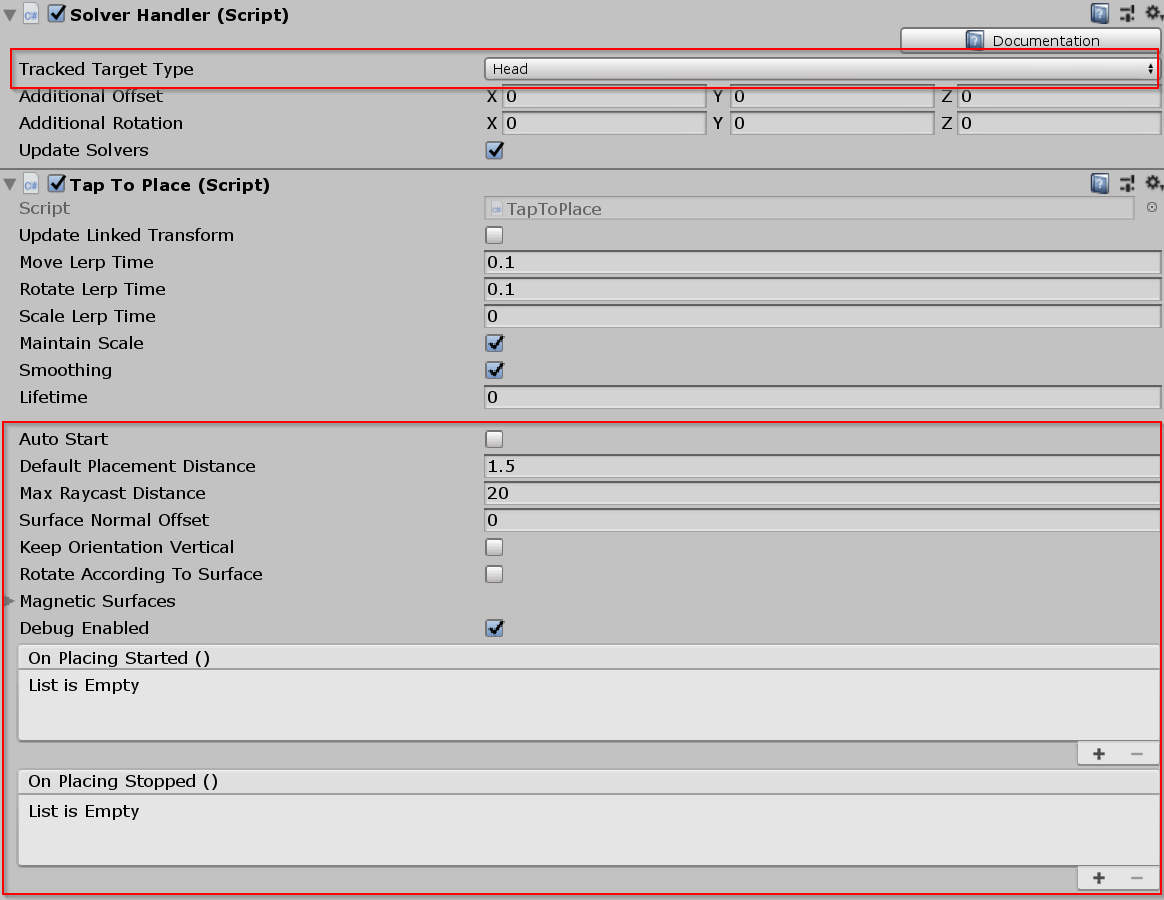
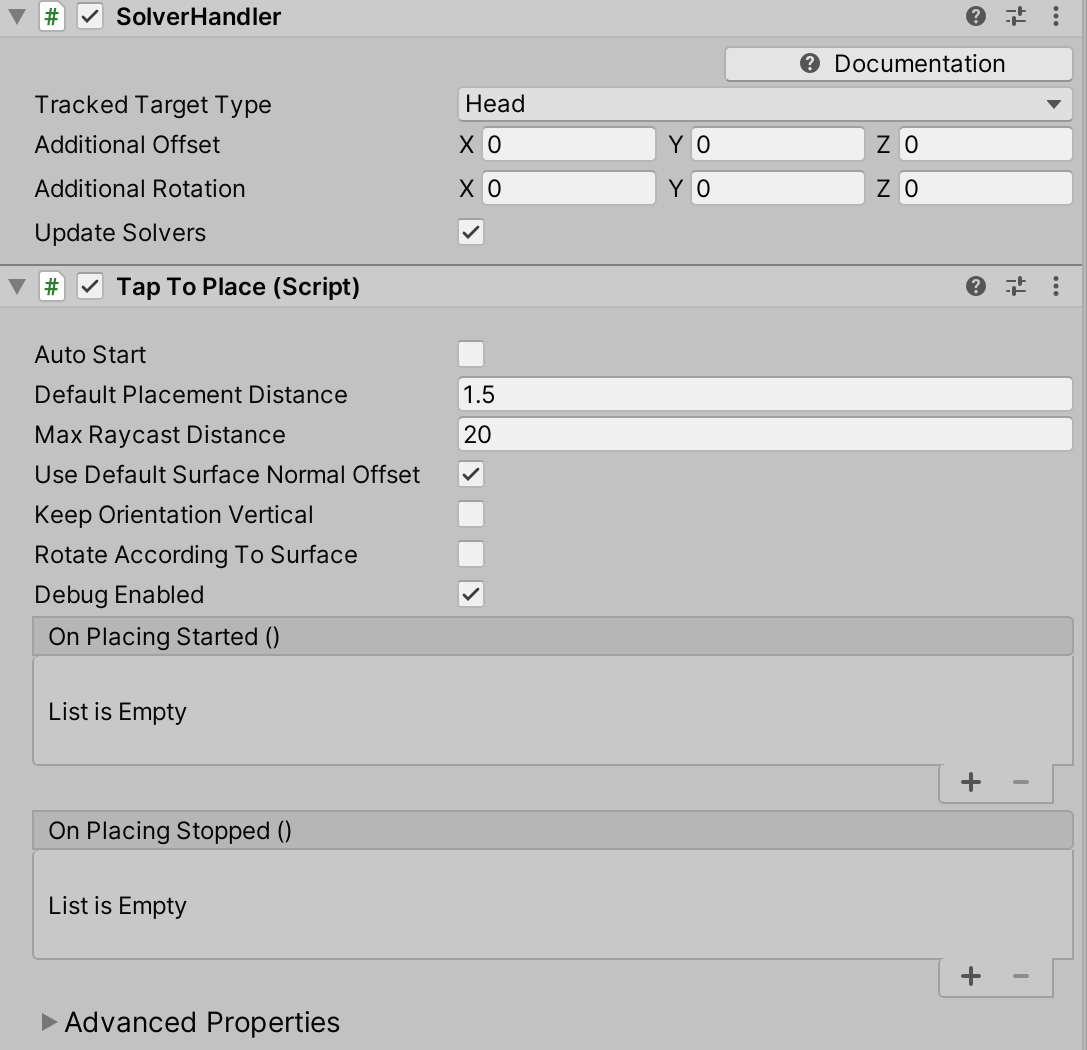
Add code configurability warning + docs update + test update

diff --git a/Assets/MRTK/Tests/PlayModeTests/SolverTests.cs b/Assets/MRTK/Tests/PlayModeTests/SolverTests.cs
@@ -844,14 +844,11 @@ namespace Microsoft.MixedReality.Toolkit.Tests
             tapToPlace.KeepOrientationVertical = true;
             tapToPlace.RotateAccordingToSurface = true;
 
-            // Set UseDefaultSurfaceNormalOffset
+            // Switch off UseDefaultSurfaceNormalOffset, this shifts the current surface normal offset value to SurfaceNormalOffset
             tapToPlace.UseDefaultSurfaceNormalOffset = false;
 
             // Make sure the SurfaceNormalOffset is not the default z extents of the bounds
             Assert.AreNotEqual(tapToPlace.SurfaceNormalOffset, tapToPlaceObj.target.GetComponent<Collider>().bounds.extents.z);
-       
-            // Make sure the default SurfaceNormalOffset is 0 initially, 0 is the SurfaceNormalOffset default
-            Assert.AreEqual(tapToPlace.SurfaceNormalOffset, 0);
 
             // Start the placement via code instead of click from the hand
             tapToPlace.StartPlacement();
@@ -859,32 +856,25 @@ namespace Microsoft.MixedReality.Toolkit.Tests
 
             Assert.True(tapToPlace.IsBeingPlaced);
 
-            // Move hand, object should follow
+            // Move hand in front of a collider for surface detection, the Tap to Place object should follow
             yield return leftHand.Move(new Vector3(-0.15f, 0, 0), 30);
 
             // Make sure the depth of the Tap to Place Object is very close to the depth of the wall because the SurfaceNormalOffset is 0
             Assert.AreEqual(tapToPlaceObj.target.transform.position.z, colliderObj1.transform.position.z, 0.05f);
 
+            // Move hand between the colliders, the Tap to Place object should have a greater z position because the raycast did not detect a surface
+            yield return leftHand.Move(new Vector3(0.15f, 0, 0), 30);
+            Assert.True(tapToPlaceObj.target.transform.position.z > colliderObj1.transform.position.z);
+
+            // Move the hand in front of a collider for a surface detection
+            yield return leftHand.Move(new Vector3(0.15f, 0, 0), 30);
+
             // Set the UseDefaultSurfaceNormalOffset to true while still in the placing state
             tapToPlace.UseDefaultSurfaceNormalOffset = true;
             yield return null;
 
-            // Make sure the SurfaceNormalOffset is the z extents of the bounds after UseDefaultSurfaceNormalOffset is set to true
-            Assert.AreEqual(tapToPlace.SurfaceNormalOffset, tapToPlaceObj.target.GetComponent<Collider>().bounds.extents.z);
-
-            yield return leftHand.Move(new Vector3(0.15f, 0, 0), 30);
-            Assert.True(tapToPlaceObj.target.transform.position.z > colliderObj1.transform.position.z);
-            yield return leftHand.Move(new Vector3(0.15f, 0, 0), 30);
-
             // Make sure the depth of the Tap to Place Object is less than the depth of the wall because UseDefaultSurfaceNormalOffset is true
             Assert.True(tapToPlaceObj.target.transform.position.z < colliderObj1.transform.position.z);
-
-            // Set a new SurfaceNormalOffset
-            tapToPlace.SurfaceNormalOffset = 0.5f;
-            yield return null;
-
-            // Make sure UseDefaultSurfaceNormalOffset was automatically set to false if a new SurfaceNormalOffset is specified
-            Assert.False(tapToPlace.UseDefaultSurfaceNormalOffset);
 
             // Stop the placement via code instead of click from the hand
             tapToPlace.StopPlacement();

diff --git a/Assets/MRTK/SDK/Features/Utilities/Solvers/TapToPlace.cs b/Assets/MRTK/SDK/Features/Utilities/Solvers/TapToPlace.cs
@@ -75,7 +75,13 @@ namespace Microsoft.MixedReality.Toolkit.Utilities.Solvers
         public float SurfaceNormalOffset
         {
             get => surfaceNormalOffset;
-            set => surfaceNormalOffset = value;
+            set
+            {
+                // If a user were to configure Tap to Place via script and they try to set the SurfaceNormalOffset while UseDefaultSurfaceNormalOffset is true, display the following error:
+                Debug.Assert(!UseDefaultSurfaceNormalOffset, $"The new value for SurfaceNormalOffset on the Tap to Place object will not be applied because UseDefaultSurfaceNormalOffset is true, set UseDefaultSurfaceNormalOffset to false.");
+
+                surfaceNormalOffset = value;
+            }
         }
 
         [SerializeField]

diff --git a/Documentation/README_TapToPlace.md b/Documentation/README_TapToPlace.md
@@ -23,7 +23,8 @@ Tap to Place is a far interaction component that is used to place a game object 
         - `Auto Start`: If true, the Tap to Place solver will start out controlling the position of the game object to be placed. The object will immediately start following the TrackedTargetType (Head or Controller Ray). This value must be modified before Start() is invoked in order to have any effect.
         - `Default Placement Distance`: The default distance (in meters) an object will be placed relative to the TrackedTargetType forward in the SolverHandler. The game object will be placed at the default placement distance if a surface is not hit by the raycast.
         - `Max Raycast Distance`: The max distance (meters) for the raycast based on the 'TrackedTargetType' origin. This raycast looks for a surface to place a selected object.
-        - `Surface Normal Offset`: The distance between the center of the game object to place and a surface along the surface normal, if the raycast hits a surface. By default, the surface normal offset is 0 but after Start() the surface normal offset is set to the collider's extents along the z axis.
+        - `UseDefaultSurfaceNormalOffset`: This property is true by default, it ensures the object being placed is aligned on a surface. If this property is true, the default surface normal offset will be applied instead of any value specified for the `SurfaceNormalOffset` property. If false, the value for `SurfaceNormalOffset` will be applied. The default surface normal offset is the collider's extents along the z axis.
+        - `Surface Normal Offset`: The distance between the center of the game object to place and a surface along the surface normal, if the raycast hits a surface. 
         - `Keep Orientation Vertical`: If true, the game object to place will remain upright and in line with Vector3.up.
         - `Rotate According to Surface`: If false, the game object to place will not change its rotation according to the surface hit.  The object will remain facing the camera while IsBeingPlaced is true.
         - `Magnetic Surfaces`: An array of LayerMasks to execute from highest to lowest priority. First layer mask to provide a raycast hit will be used for position calculations.
